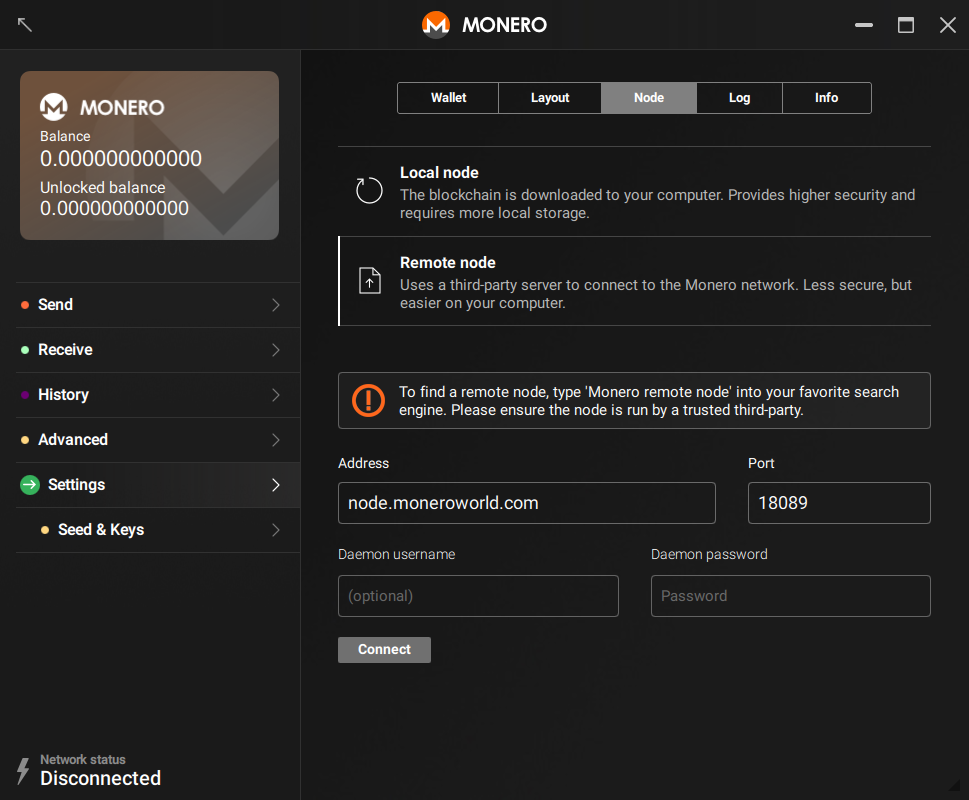
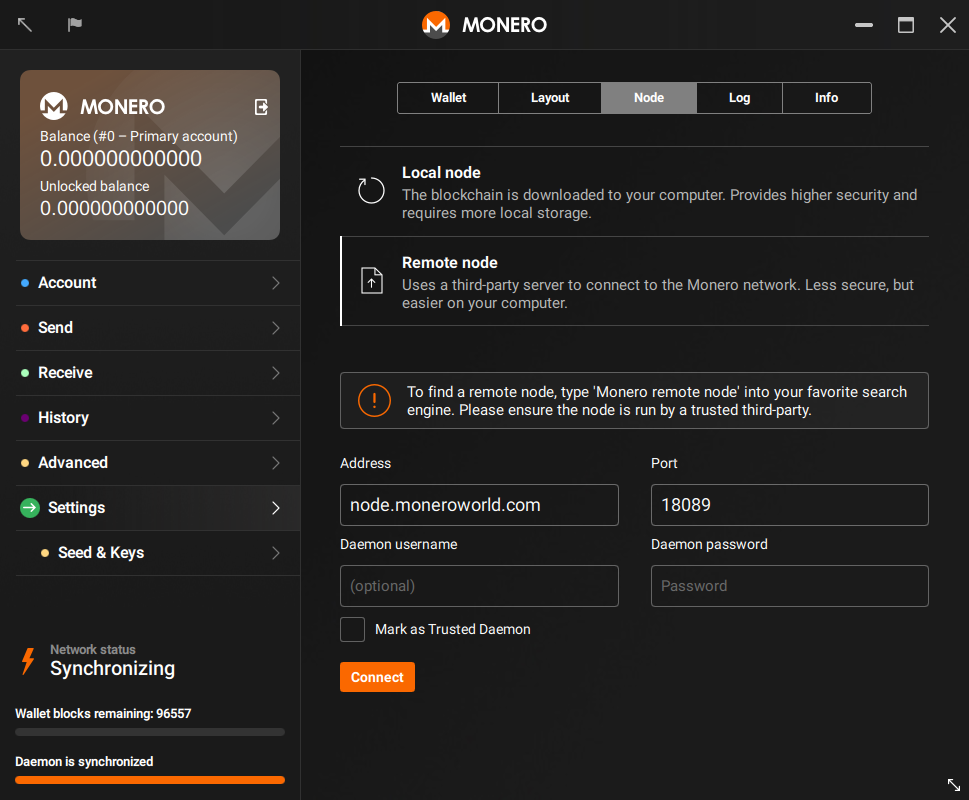
update remote node user-guide with 0.14 screenshot + update image link to markdown

diff --git a/_i18n/ru/resources/user-guides/remote_node_gui.md b/_i18n/ru/resources/user-guides/remote_node_gui.md
@@ -7,4 +7,4 @@
 После ввода пароля от вашего кошелька вы увидите всплывающее окно - "use custom settings" (Использовать пользовательские настройки), которое даст вам возможность изменить настройки при первом запуске кошелька. Нажмите на него. Затем вы будете отправлены на страницу "Settings" (Настройки). На этом этапе вы должны переключится в режим "Remote node" (Удаленная нода). В первое поле "Address" (Адрес) вам нужно ввести адрес удаленной ноды, к которой вы хотите подключиться. Этот адрес может выглядеть как `node.moneroworld.com` или как IP-адрес. В поле "Port" (Порт) вы вводите порт для подключения к ноде. Порт по умолчанию - `18081`, но если вы используете случайную ноду, значение для порта подключения будет другим. Нода node.moneroworld.com использует порт `18089`.
 
 ### Данное окно должно выглядеть так:
-<img src="png/remote_node/remote-node-screenshot.png" width="(600)">
+![Node](png/remote_node/remote-node-screenshot.png){:width="600px"}

diff --git a/_i18n/ar/resources/user-guides/remote_node_gui.md b/_i18n/ar/resources/user-guides/remote_node_gui.md
@@ -6,4 +6,4 @@
 ## الإتصال بخادم بعيد في الواجهه الرسوميه
 بعد إدخال كلمه السر لمحفظتك سوف تجد رساله تعطيك خيار "إستخدام إعدادات خاصه" قم بالضغط عليها. بعد ذلك سيتم تحويلك إلي صفحه الإعدادات في الواجهه الرسوميه. بعد ذلك سوف تجد صندوقين للنصوص بجوار " عنوان الخادم" . في الصندوق الأول ( علي اليسار ) يجب عليك إدخال عنوان الخادم الذي تود الإتصال به . سيبدو هذا العنوان مثل `node.moneroworld.com` أو ربما يبدو كعنوان IP. وفي الصندوق الصغير علي اليمين يجب عليك إدخال رقم منفذ الإتصال . المنفذ الإفتراضي هو 18081 لكن إذا كنت تستخدم خادم عشوائي ربما يكون المنفذ مختلف . المنفذ الخاص ب node.moneroworld.com هو 18089.
 ### يجب أن تبدو الواجهه الرسوميه  كما في الصوره
-<img src="png/remote_node/remote-node-screenshot.png" width="(600)">
+![Node](png/remote_node/remote-node-screenshot.png){:width="600px"}

diff --git a/_i18n/fr/resources/user-guides/remote_node_gui.md b/_i18n/fr/resources/user-guides/remote_node_gui.md
@@ -7,4 +7,4 @@ des nœuds. L'une des méthodes les plus simple serait d'utiliser un nœud appar
 ## Connecter le portefeuille GUI au nœud
 Après avoir saisit votre mot de passe dans votre portefeuille, vous verrez une notification que vous donnera la possibilité de configurer des "Paramètres personnalisés". Cliquez dessus. Vous serez alors envoyé à la page "Réglages > Nœud" de la GUI. A ce moment là vous devriez voir quatre champs texte libellés "Address", "Port", "Daemon username" et "Daemon password". Saisissez l'adresse du nœud auquel vous voulez vous connecter. Cette adresse pourrait ressembler à `node.moneroworld.com` où à une bonne vielle adresse IP. Puis saisissez le port du nœud. Le port par défaut est `18081` mais si vous utilisez un nœud aléatoire, le port qu'il utilise peut varier. node.moneroworld.com utilise le port 18089. Au besoin, saisissez le nom d'utilisateur et le mot de passe si votre nœud distant le nécessite.
 ### Votre écran devrait ressembler un peu à cela
-<img src="png/remote_node/remote-node-screenshot.png" width="(600)">
+![Node](png/remote_node/remote-node-screenshot.png){:width="600px"}

diff --git a/_i18n/nl/resources/user-guides/remote_node_gui.md b/_i18n/nl/resources/user-guides/remote_node_gui.md
@@ -8,4 +8,4 @@ is een node van moneroworld zelf gebruiken, maar ze bieden ook een hulpmiddel aa
 Nadat je het wachtwoord voor je portemonnee hebt ingevoerd, wordt een scherm weergegeven waarin de optie "Gebruik aangepaste instellingen" staat. Klik op die optie. Dan word je
 doorgeleid naar de pagina "Instellingen > Node" van de grafische interface (GUI). Hier kun je de optie 'Externe node' kiezen. Dan zie je vier tekstvakken met de labels "Address", "Port", "Daemon username" en "Daemon password". Voer het adres in van de node waarmee je verbinding wilt maken. Het adres kan eruitzien als `node.moneroworld.com`, of het is een IP-adres. Vul vervolgens in het vak "Poort" de poort van de node in. De standaardpoort is `18081`, maar als je een willekeurige node gebruikt, kan die node een andere poort gebruiken. De poort voor node.moneroworld.com is 18089. Eventueel kun je een gebruikersnaam en wachtwoord invullen als dat nodig is voor deze node.
 ### Het scherm hoort er ongeveer zo uit te zien
-<img src="png/remote_node/remote-node-screenshot.png" width="(600)">
+![Node](png/remote_node/remote-node-screenshot.png){:width="600px"}

diff --git a/_i18n/it/resources/user-guides/remote_node_gui.md b/_i18n/it/resources/user-guides/remote_node_gui.md
@@ -8,4 +8,4 @@ would be to use a node run by moneroworld, but they have a tool for finding rand
 After you enter your password for your wallet, you will see a pop up that will give you the option to "use custom settings". Click on it. You will then be
 sent to the "Impostazioni > Nodo" page in the GUI. At this point you could choose 'Remote Node' see four text boxes labeled "Address", "Port", "Daemon username" and "Daemon password". Fill the address of the node that you want to connect to. This address might look like `node.moneroworld.com` or it could look like any old ip address. Then fill the "Port" box with the node's port. The default port is `18081` but if you are using a random node the port that is used will vary. The port for node.moneroworld.com uses 18089. Optionnaly, fill the username and password if your remote note requires them.
 ### Your screen should look a bit like this
-<img src="png/remote_node/remote-node-screenshot.png" width="(600)">
+![Node](png/remote_node/remote-node-screenshot.png){:width="600px"}

diff --git a/_i18n/de/resources/user-guides/remote_node_gui.md b/_i18n/de/resources/user-guides/remote_node_gui.md
@@ -8,4 +8,4 @@ would be to use a node run by moneroworld, but they have a tool for finding rand
 After you enter your password for your wallet, you will see a pop up that will give you the option to "use custom settings". Click on it. You will then be
 sent to the "Settings > Node" page in the GUI. At this point you could choose 'Remote Node' see four text boxes labeled "Address", "Port", "Daemon username" and "Daemon password". Fill the address of the node that you want to connect to. This address might look like `node.moneroworld.com` or it could look like any old ip address. Then fill the "Port" box with the node's port. The default port is `18081` but if you are using a random node the port that is used will vary. The port for node.moneroworld.com uses 18089. Optionnaly, fill the username and password if your remote note requires them.
 ### Your screen should look a bit like this
-<img src="png/remote_node/remote-node-screenshot.png" width="(600)">
+![Node](png/remote_node/remote-node-screenshot.png){:width="600px"}

diff --git a/_i18n/en/resources/user-guides/remote_node_gui.md b/_i18n/en/resources/user-guides/remote_node_gui.md
@@ -8,4 +8,4 @@ would be to use a node run by moneroworld, but they have a tool for finding rand
 After you enter your password for your wallet, you will see a pop up that will give you the option to "use custom settings". Click on it. You will then be
 sent to the "Settings > Node" page in the GUI. At this point you could choose 'Remote Node' see four text boxes labeled "Address", "Port", "Daemon username" and "Daemon password". Fill the address of the node that you want to connect to. This address might look like `node.moneroworld.com` or it could look like any old ip address. Then fill the "Port" box with the node's port. The default port is `18081` but if you are using a random node the port that is used will vary. The port for node.moneroworld.com uses 18089. Optionnaly, fill the username and password if your remote note requires them.
 ### Your screen should look a bit like this
-<img src="png/remote_node/remote-node-screenshot.png" width="(600)">
+![Node](png/remote_node/remote-node-screenshot.png){:width="600px"}

diff --git a/_i18n/pt-br/resources/user-guides/remote_node_gui.md b/_i18n/pt-br/resources/user-guides/remote_node_gui.md
@@ -8,4 +8,4 @@ would be to use a node run by moneroworld, but they have a tool for finding rand
 After you enter your password for your wallet, you will see a pop up that will give you the option to "use custom settings". Click on it. You will then be
 sent to the "Settings > Node" page in the GUI. At this point you could choose 'Remote Node' see four text boxes labeled "Address", "Port", "Daemon username" and "Daemon password". Fill the address of the node that you want to connect to. This address might look like `node.moneroworld.com` or it could look like any old ip address. Then fill the "Port" box with the node's port. The default port is `18081` but if you are using a random node the port that is used will vary. The port for node.moneroworld.com uses 18089. Optionnaly, fill the username and password if your remote note requires them.
 ### Your screen should look a bit like this
-<img src="png/remote_node/remote-node-screenshot.png" width="(600)">
+![Node](png/remote_node/remote-node-screenshot.png){:width="600px"}

diff --git a/_i18n/pl/resources/user-guides/remote_node_gui.md b/_i18n/pl/resources/user-guides/remote_node_gui.md
@@ -8,4 +8,4 @@ Pierwszą rzeczą jest znalezienie węzła, aby się podłączyć. [Moneroworld.
 Po wpisaniu hasła do portfela pojawi się okienko z opcją użycia niestandardowych ustawień, kliknij na nie. Zostaniesz przeniesiony do strony z ustawieniami w Graficznym Interfejsie Użytkownika. W tym momencie powinieneś zobaczyć dwa okienka tekstowe po prawej stronie etykietki "Adres daemona". W pierwszym okienku (po lewej) wpisz adres węzła, z którym chcesz się połączyć. Adres ten może wyglądać na przykład `node.moneroworld.com` lub jak jakikolwiek adres IP. W mniejszym okienku po prawej stronie wpisz port węzła. Domyślnym portem jest `18081`, ale jeśli używasz losowego węzła, port się zmieni- Port dla node.moneroworld.com to 18089.
 
 ### Twój ekran powinien wyglądać mniej więcej tak:
-<img src="png/remote_node/remote-node-screenshot.png" width="(600)">
+![Node](png/remote_node/remote-node-screenshot.png){:width="600px"}

diff --git a/_i18n/es/resources/user-guides/remote_node_gui.md b/_i18n/es/resources/user-guides/remote_node_gui.md
@@ -9,4 +9,4 @@ Después de que ingreses la contraseña de tu monedero, verás un pop-up que te 
 enviado a la página de ajustes en la GUI. En este punto debes ser capaz de ver dos cajas de texto en la derecha de una etiqueta llamada "Daemon address". En la primera caja (a la izquierda) necesitarás ingresar la dirección del nodo al que te deseas
 conectar. Esta dirección se debe ver como `node.moneroworld.com` o puede verse como cualquier dirección ip vieja. La caja pequeña en la derecha es donde ingresas el puerto del nodo. El puerto por defecto es `18081` pero si estás usando un nodo aleatorio el puerto que es usado puede variar. El puerto para node.moneroworld.com es 18089.
 ### Tu pantalla se debería ver algo como esto:
-<img src="png/remote_node/remote-node-screenshot.png" width="(600)">
+![Node](png/remote_node/remote-node-screenshot.png){:width="600px"}
